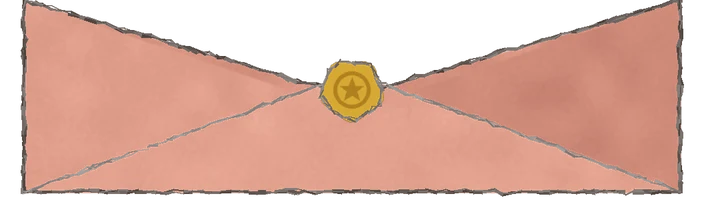
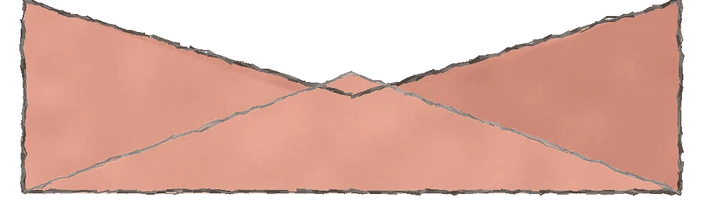
Gift letter: the envelope arrives sealed with Fern on it, the flap opens, then the letter slides out lifting Fern — the paper never shows before the envelope opens

diff --git a/components/sisi/journey-v2/GiftNote.tsx b/components/sisi/journey-v2/GiftNote.tsx
@@ -1,6 +1,6 @@
 "use client";
 
-import { useEffect, useState } from "react";
+import { useEffect, useLayoutEffect, useRef, useState } from "react";
 import { createPortal } from "react-dom";
 import { AnimatePresence, motion } from "framer-motion";
 import { PrimaryButton, StatusChip } from "@/components/ds";
@@ -16,9 +16,10 @@ const hand = Nanum_Pen_Script({ weight: "400", subsets: ["latin"], preload: fals
  * Once, on the Journey:
  *   box      a wrapped blue box with a red bow sways · "Tap to open"
  *   opening  the lid lifts off, a little light, Fern rises out of the box
- *   letter   the box gives way to an envelope; a handwritten letter slides
- *            out of it (lined paper, a stamp) and Fern hops onto its top
- *            edge · "You unlocked a new character" · "Open the Map"
+ *   letter   the box gives way to a sealed envelope and Fern hops onto it;
+ *            the flap opens, and the handwritten letter (lined paper, a
+ *            stamp) slides out, lifting Fern on its top edge ·
+ *            "You unlocked a new character" · "Open the Map"
  * "Open the Map" unlocks Fern and opens the Map on "Who walks with you".
  */
 export type Gift = { gift: "fern"; body: string[]; from: string };
@@ -45,15 +46,37 @@ export function usePendingGift(enabled: boolean): Gift | null {
 const ART = "/V2/gift/";
 const FERN = "/V2/poodle-walk/fern-sit.webp";
 const EASE = [0.22, 1, 0.36, 1] as const;
+/** how far the envelope reaches below the letter once it is out (px) */
+const LETTER_DROP = 62;
 
 export function GiftNote({ gift, open, onOpenMap }: { gift: Gift | null; open: boolean; onOpenMap: () => void }) {
   const [mounted, setMounted] = useState(false);
   const [step, setStep] = useState<"box" | "opening" | "note">("box");
+  // the envelope: arrives sealed → the flap opens → the letter comes out
+  const [env, setEnv] = useState<"sealed" | "open" | "out">("sealed");
+  const wrapRef = useRef<HTMLDivElement>(null);
+  const letterRef = useRef<HTMLElement>(null);
+  // how far down the letter sits while inside (its top at the envelope's mouth)
+  const [lift, setLift] = useState(200);
   useEffect(() => setMounted(true), []);
   useEffect(() => {
     if (step !== "opening") return;
     const t = setTimeout(() => setStep("note"), 1500);
     return () => clearTimeout(t);
+  }, [step]);
+  useEffect(() => {
+    if (step !== "note") return;
+    const a = setTimeout(() => setEnv("open"), 900);
+    const b = setTimeout(() => setEnv("out"), 1400);
+    return () => {
+      clearTimeout(a);
+      clearTimeout(b);
+    };
+  }, [step]);
+  useLayoutEffect(() => {
+    if (step !== "note" || !wrapRef.current || !letterRef.current) return;
+    const bodyH = ((wrapRef.current.offsetWidth + 12) * 118) / 352;
+    setLift(Math.round(letterRef.current.offsetHeight + LETTER_DROP - bodyH));
   }, [step]);
   if (!mounted || !gift) return null;
   const opened = step !== "box";
@@ -91,6 +114,12 @@ export function GiftNote({ gift, open, onOpenMap }: { gift: Gift | null; open: b
                   transition={{ duration: 1.1, ease: "easeOut" }}
                 />
               )}
+              <motion.div
+                className="gn-ride"
+                initial={false}
+                animate={{ y: step === "note" && env !== "out" ? lift : 0 }}
+                transition={env === "out" ? { duration: 0.8, ease: EASE } : { duration: 0.5, ease: EASE }}
+              >
               <motion.img
                 src={FERN}
                 alt={opened ? "Fern, a little poodle" : ""}
@@ -110,6 +139,7 @@ export function GiftNote({ gift, open, onOpenMap }: { gift: Gift | null; open: b
                     : { delay: opened ? 0.3 : 0, duration: 0.75, times: [0, 0.55, 1], ease: "easeOut" }
                 }
               />
+              </motion.div>
             </div>
 
             {/* below Fern: the box, then the note */}
@@ -147,36 +177,62 @@ export function GiftNote({ gift, open, onOpenMap }: { gift: Gift | null; open: b
                 ) : (
                   <motion.div
                     key="note"
+                    ref={wrapRef}
                     className="gn-letter-wrap"
                     initial={{ y: 70, opacity: 0 }}
                     animate={{ y: 0, opacity: 1 }}
                     transition={{ duration: 0.5, ease: EASE }}
                   >
-                    {/* the envelope's back, then the letter, then its front pocket */}
-                    {/* eslint-disable-next-line @next/next/no-img-element */}
-                    <img className="gn-env-back" src={`${ART}envelope-back.webp`} alt="" aria-hidden draggable={false} />
-                    <motion.article
-                      className={`ds-deckle gn-letter ${hand.className}`}
-                      initial={{ y: 120 }}
-                      animate={{ y: 0 }}
-                      transition={{ delay: 0.35, duration: 0.75, ease: EASE }}
-                    >
-                      <span className="gn-stamp" aria-hidden>
-                        {/* eslint-disable-next-line @next/next/no-img-element */}
-                        <img src="/V2/onboarding/star.webp" alt="" />
-                      </span>
-                      <div className="gn-ruled">
-                      <p className="gn-to">To. 원님</p>
-                      {gift.body.map((p, i) => (
-                        <p key={i} className="gn-line">
-                          {p}
-                        </p>
-                      ))}
-                      <p className="gn-from">From. {gift.from}</p>
-                      </div>
-                    </motion.article>
-                    {/* eslint-disable-next-line @next/next/no-img-element */}
-                    <img className="gn-env-front" src={`${ART}envelope-front.webp`} alt="" aria-hidden draggable={false} />
+                    {/* the envelope, layered around the letter:
+                        back 0 · open flap 0 · letter 1 · front pocket 2 · closed flap 3 */}
+                    <div className="gn-env" aria-hidden>
+                      {/* eslint-disable-next-line @next/next/no-img-element */}
+                      <img className="gn-env-back" src={`${ART}envelope-back.webp`} alt="" draggable={false} />
+                      <motion.img
+                        className="gn-env-flap-open"
+                        src={`${ART}envelope-flap-open.webp`}
+                        alt=""
+                        draggable={false}
+                        initial={{ scaleY: 0 }}
+                        animate={{ scaleY: env === "sealed" ? 0 : 1 }}
+                        transition={{ delay: env === "open" ? 0.22 : 0, duration: 0.25, ease: "easeOut" }}
+                      />
+                      {/* eslint-disable-next-line @next/next/no-img-element */}
+                      <img className="gn-env-front" src={`${ART}envelope-front.webp`} alt="" draggable={false} />
+                      <motion.img
+                        className="gn-env-flap-closed"
+                        src={`${ART}envelope-flap-closed.webp`}
+                        alt=""
+                        draggable={false}
+                        initial={{ scaleY: 1 }}
+                        animate={{ scaleY: env === "sealed" ? 1 : 0 }}
+                        transition={{ duration: 0.22, ease: "easeIn" }}
+                      />
+                    </div>
+                    {/* the letter: inside the envelope (hidden below its mouth), then out */}
+                    <div className="gn-letter-clip">
+                      <motion.article
+                        ref={letterRef}
+                        className={`ds-deckle gn-letter ${hand.className}`}
+                        initial={false}
+                        animate={{ y: env === "out" ? 0 : lift }}
+                        transition={env === "out" ? { duration: 0.8, ease: EASE } : { duration: 0 }}
+                      >
+                        <span className="gn-stamp" aria-hidden>
+                          {/* eslint-disable-next-line @next/next/no-img-element */}
+                          <img src="/V2/onboarding/star.webp" alt="" />
+                        </span>
+                        <div className="gn-ruled">
+                          <p className="gn-to">To. 원님</p>
+                          {gift.body.map((p, i) => (
+                            <p key={i} className="gn-line">
+                              {p}
+                            </p>
+                          ))}
+                          <p className="gn-from">From. {gift.from}</p>
+                        </div>
+                      </motion.article>
+                    </div>
                   </motion.div>
                 )}
               </AnimatePresence>
@@ -255,18 +311,18 @@ export function GiftNote({ gift, open, onOpenMap }: { gift: Gift | null; open: b
             .gn-body { display: block; width: 190px; position: relative; z-index: 2; }
             .gn-inside { position: absolute; inset: 0; width: 100%; z-index: 0; }
             /* the letter: lined paper, deckled, half out of a rose envelope */
-            .gn-letter-wrap { position: relative; width: 100%; max-width: 340px; padding-bottom: 62px; }
-            /* the envelope: painted paper with a crayon outline (back + open flap, front pocket with a gold seal) */
-            .gn-env-back, .gn-env-front {
-              position: absolute;
-              left: -6px;
-              width: calc(100% + 12px);
-              height: auto;
-              bottom: 0;
-              pointer-events: none;
-            }
-            .gn-env-back { filter: drop-shadow(0 14px 24px rgba(0, 0, 0, 0.35)); }
-            .gn-env-front { z-index: 2; }
+            .gn-letter-wrap { position: relative; width: 100%; max-width: 340px; }
+            /* the envelope: one box the size of its body, flaps hinged on its top edge */
+            .gn-env { position: absolute; left: -6px; right: -6px; bottom: 0; aspect-ratio: 352 / 118; pointer-events: none; }
+            .gn-env img { position: absolute; left: 0; width: 100%; height: auto; }
+            .gn-env-back { top: 0; z-index: 0; filter: drop-shadow(0 14px 24px rgba(0, 0, 0, 0.35)); }
+            .gn-env-flap-open { bottom: calc(100% - 4px); z-index: 0; transform-origin: 50% 100%; }
+            .gn-env-front { bottom: 0; z-index: 2; }
+            .gn-env-flap-closed { top: 0; z-index: 3; transform-origin: 50% 0; }
+            /* the letter shows only above the envelope's bottom edge */
+            .gn-letter-clip { position: relative; z-index: 1; overflow: hidden; margin: -420px -14px 0; padding: 420px 14px ${LETTER_DROP - 16}px; margin-bottom: 16px; pointer-events: none; }
+            /* (the clip ends at the envelope's painted bottom edge, not its image edge) */
+            .gn-ride { position: absolute; inset: 0; display: flex; justify-content: center; }
             .gn-letter {
               position: relative;
               z-index: 1;
